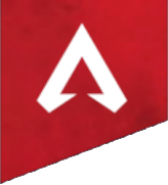
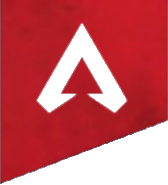
changed nav and nav element sizing to be more responsive added media query removed unneeded css properties that were no longer doing anything

diff --git a/styles.css b/styles.css
@@ -5,40 +5,84 @@ body{
     background-size: cover;
     background-repeat: no-repeat;
     background-position: left;
+    height: 100vh;
+
 }
 header{
-    height: 8vh;
-    background-color: brown;
+    height: 75px;
+    background-color: #0c0a0abd;
     display: flex;
     align-items: flex-start;
-    font-size: 15px;
+    font-size: 1.4rem;
+    position: relative;
+    justify-content: flex-start;
+}
+.controls{
+    height: 100%;
+    width: 461px;
+    position: absolute;
+    font-size: 2vmin;
+    color: whitesmoke;
+    /* display: flex; */
+    /* flex-direction: row; */
+    /* justify-content: flex-start; */
+    /* align-items: flex-start; */
+
+    /* display: inline; */
+    left: 15%;
+
+
+}
+.reset, .mute-fx, .mute-bgm{
+    height: 100%;
+    width: 150px;
+    background-color: #ca1d29;
+    transform: skewX(45deg);
+    display: inline-block;
+    position: relative;
+
+}
+.stats{
+    display: flex;
+    flex-direction: row;
+    justify-content: flex-start;
+    height: 100%;
+    width: 19%;
+    position: relative;
+    left: 65%;
 }
 .game-logo{
-    height: 100%;
-    width: 16%;
-    position: relative;
-    left: 2%;
-    background-image: url("images/apex_icon2.png");
+    height: 115px;
+    width: 105px;
+    position: absolute;
+    background-image: url(images/ApexCornerIcon.png);
     background-repeat: no-repeat;
     background-size: contain;
 }
 .games-played, .attempts, .accuracy{
-    height: 100%;
-    width: 12%;
+    height: 33%;
+    width: 33%;
     position: relative;
-    left: 12%;
+    left: 25%;
     margin: 0 1px;
-    font-size: 3vmin;
+    font-size: 1rem;
     color: whitesmoke;
+
 }
-.about{
-    height: 40%;
-    width: 25%;
-    position: relative;
-    left: 20%;
-    font-size: 2vmin;
-    color: whitesmoke;
+@media screen and (max-width: 955px){
+    .header{
+        height: 50px;
+    }
+    .reset, .mute-fx, .mute-bgm{
+        width: 138px; /*90px*/
+    }
+    .stats{
+        height: 100%;
+        left: 85%;
+        display: unset;
+    }
 }
+@media screen and (max-width: 9)
 a:link, a:visited {
     background-color: #f44336;
     color: white;
@@ -52,7 +96,6 @@ a:link, a:visited {
 }
 main{
     height: 88vh;
-
     display: flex;
     align-items: center;
     justify-content: center;
@@ -62,7 +105,6 @@ main{
 #game-area{
     height: 86%;
     width: 98%;
-    margin: auto;
     display: flex;
     justify-content: space-between;
     flex-direction: row;
@@ -97,27 +139,6 @@ main{
     backface-visibility: hidden;
 }
 
-footer{
-    display: flex;
-    background-color: rgba(55,55,65,0.85);
-    height: 4vh;
-    justify-content: space-between;
-}
-.reset{
-    height: 100%;
-    width: 6%;
-    background-color: whitesmoke;
-}
-.settings{
-    height: 100%;
-    width: 6%;
-    background-color: whitesmoke;
-}
-/*
-.revealed >.back{
-    display: none;
-}
-*/
 
 
 

diff --git a/index.html b/index.html
@@ -3,14 +3,12 @@
 
 <head>
     <title>Apex Legends Memory Match Game</title>
-
+    <meta name="viewport" content="">
     <link rel="stylesheet" href="styles.css">
     <script src="https://code.jquery.com/jquery-3.1.0.js"></script>
     <script src="sounds.js"></script>
     <script src="main.js"></script>
-
 </head>
-
 
 <body>
 
@@ -18,28 +16,29 @@
 
     <div class="game-logo"></div>
 
-    <div class="games-played">
-        <div class="label"># Played</div>
-        <div class="value"></div>
-
+    <div class="controls">
+        <div class="reset"></div>
+        <div class="mute-fx"></div>
+        <div class="mute-bgm"></div>
     </div>
 
-    <div class="attempts">
-        <div class="label">Attempts</div>
-        <div class="value"></div>
-
+    <div class="stats">
+        <div class="games-played">
+            <div class="label">Games</div>
+            <div class="value"></div>
+        </div>
+        <div class="attempts">
+            <div class="label">Attempts</div>
+            <div class="value"></div>
+        </div>
+        <div class="accuracy">
+            <div class="label">Accuracy</div>
+            <div class="value"></div>
+        </div>
     </div>
 
-    <div class="accuracy">
-        <div class="label">Accuracy</div>
-        <div class="value"></div>
 
-    </div>
 
-    <div class="about">
-        Memory Match
-        <a href="#">About</a>
-    </div>
 
 </header>
 
@@ -47,10 +46,7 @@
     <div id="game-area"></div>
 </main>
 
-<footer>
-    <div class="reset">Reset</div>
-    <div class="settings">Settings</div>
-</footer>
+
 
 </body>
 
